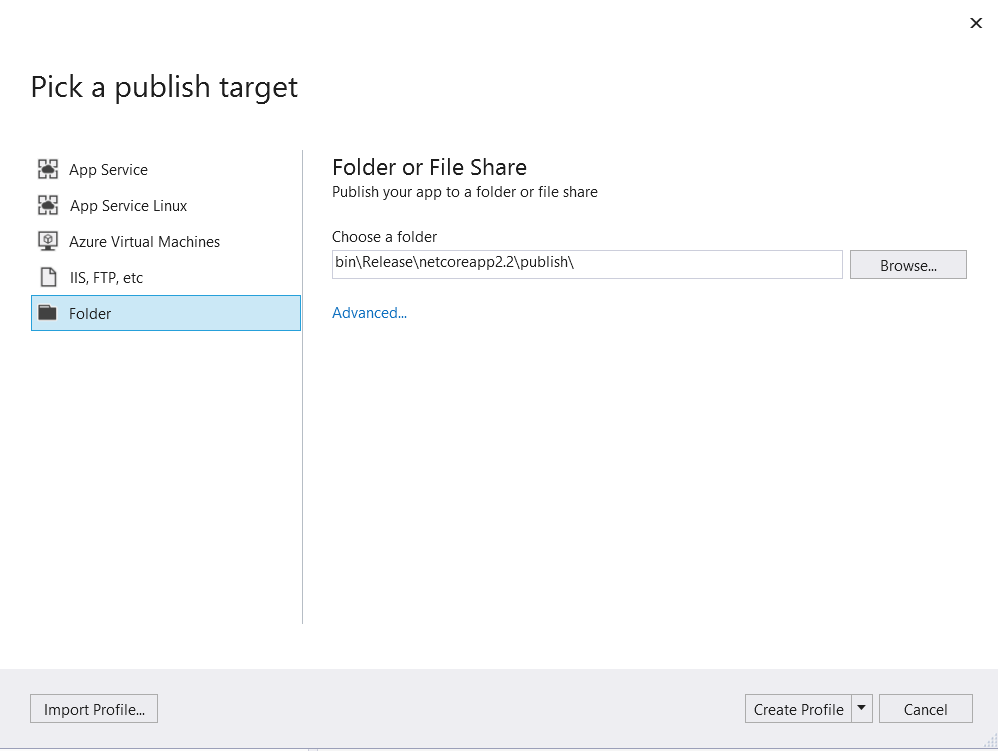
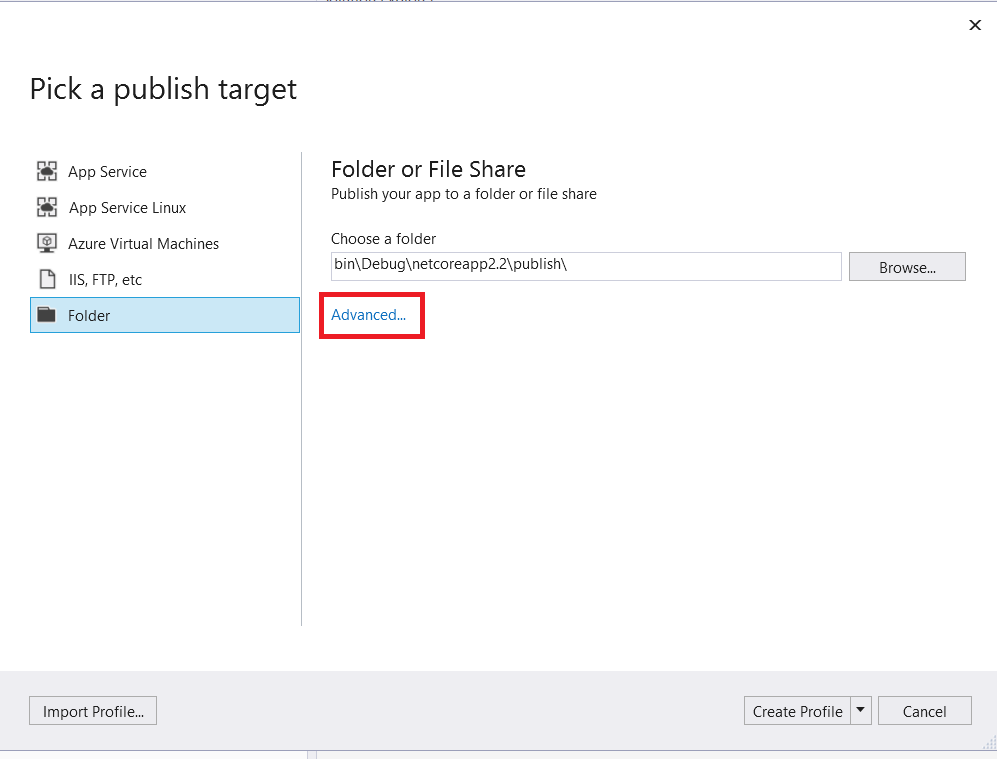
Added images for the Deployment

diff --git a/2019/Drafts/Asp.NetCoreDeployment/AspNetCoreDeployment.md b/2019/Drafts/Asp.NetCoreDeployment/AspNetCoreDeployment.md
@@ -57,23 +57,49 @@ Right click on the API/Web Project and you will see an option of Publish as show
 
 ![](Images/VSPublishOption.png)
 
-Clicking on the publish option open a new dialog as shown below. This dialog provides various options to deploy. Again, to keep the article simple, 
+Clicking on the publish option open a new dialog as shown below. This dialog provides various options to deploy. Again, to keep the article simple, we will publish the application to a Folder.
 
 ![](Images/VSPublishOption1.png)
 
+Let's take a look at the default values for the publish option.
+Click on the **Advanced** link. It would open up the following dialog
+
+![](Images/VSPublishOptionSCD.png)
+
+Take a look at the Deployment Mode DropDown, it has 2 options, one for the Self contained Deployment and the other for the Framework dependent Deployment. Also, note that the Target Runtime needs to be selected as per the machine configuration where the code needs to be deployed. If you have worked previously with the Asp.net core deployments, then you will find these as new options.
+
+Click on Save, and then Publish. The publish button would publish the application to the selected folder. The contents of the publish folder would be used to deploy the application into IIS.
+
+![](Images/VSPublishOption3.png)
+
+
 #### Publish using command line/ Dotnet cli
 
+Dotnet Command line interface (CLI) is a powerful way to automate the workflow, and I will show you how to publish the application using the dotnet cli. We need to make use of the `publish` command to deploy the application, other flags needs to be added depending on the configuration you opt for.
 
+`dotnet publish <APIProjectPath> -c Staging --self-contained true -o <OutputFolderName> -r win-x64 /p:EnvironmentName=Staging`
 
 ### Pros and Cons
 
+Now, we have the content ready for the Deployment, let's move the server where we will be deploying the application. 
+
 ## Installation on the IIS Server
+
 
 ### Hosting Bundle
 
+Asp.net core hosting bundle install the following 2 things
+
+* Asp.net core runtime
+* Asp.net core HTTP Module
+
 #### VC Runtime
 
+The asp.net core hosting bundle requires VC++ Runtime. If the server you are installing doesn't have the internet access.
+
 ### Application Pool
+
+
 
 ### Website setup and Mapping
 
